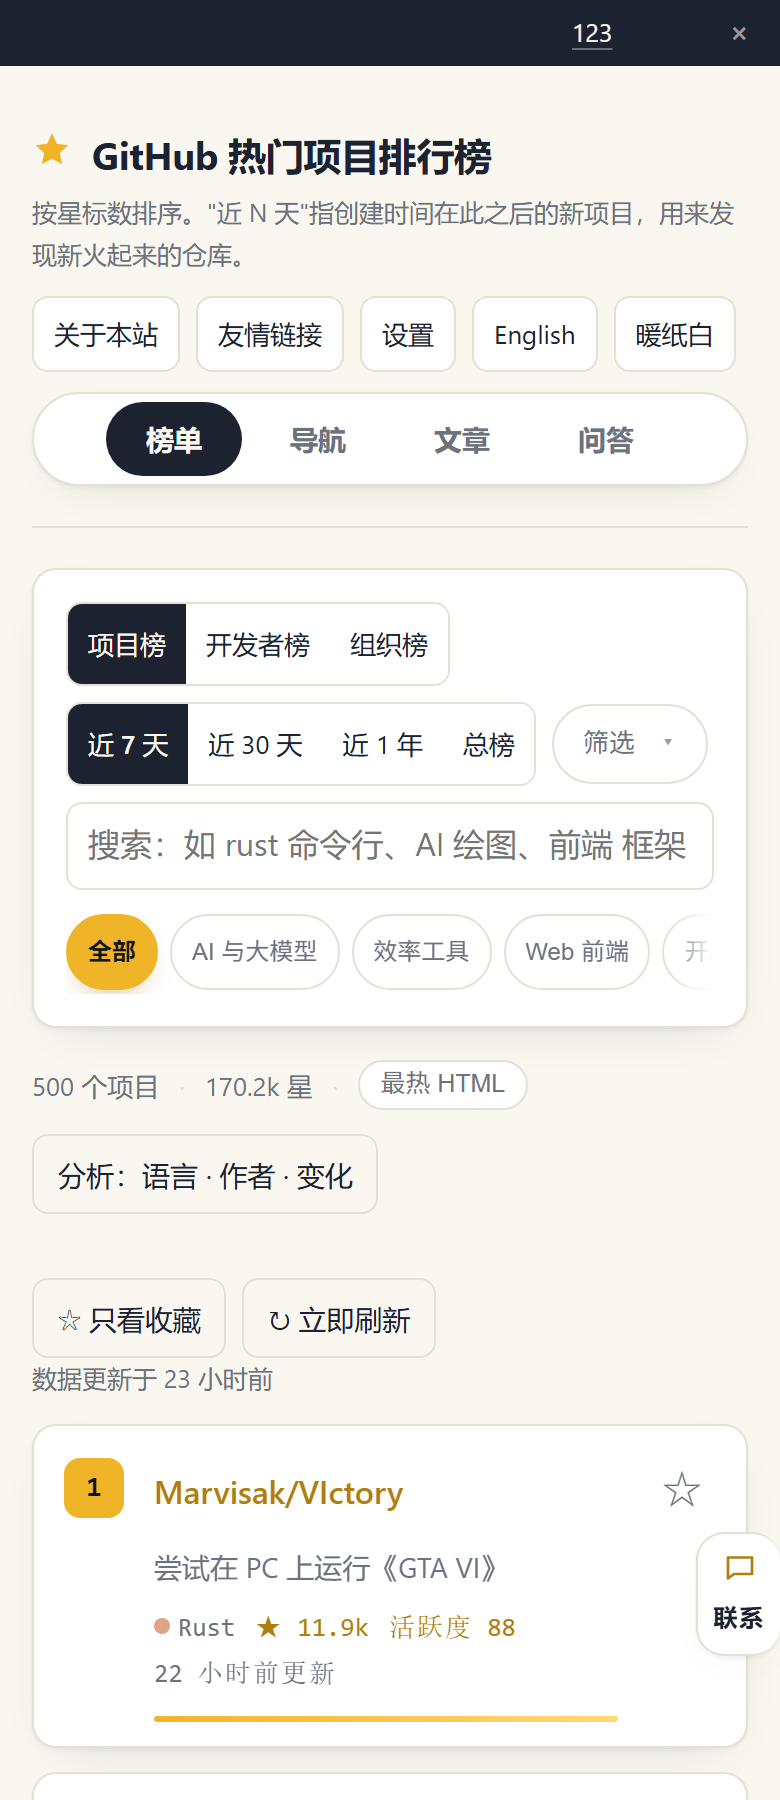
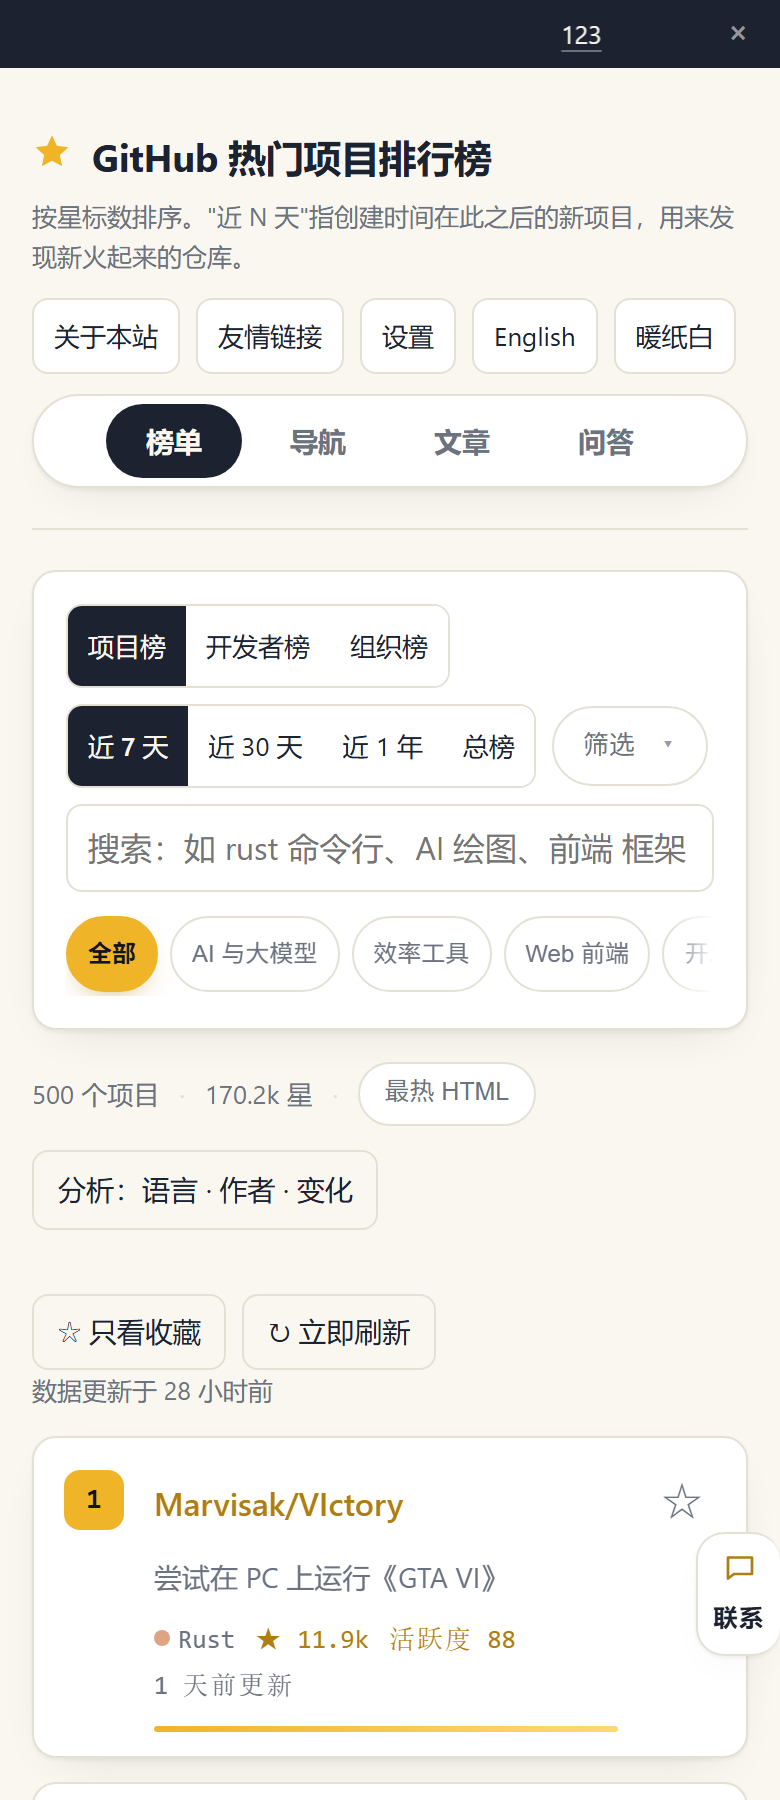
fix: 手机端横向溢出（flex 列 align-items:start→stretch）+ 分页器两行网格 + 可点目标 32px；新增 check-mobile-tidy 门禁；v185

diff --git a/index.html b/index.html
@@ -362,6 +362,17 @@ html[data-theme="ink"] .navcard .hitmark,html[data-theme="ink"] .navjump .hitmar
 #list .item:nth-child(3){animation-delay:.04s}
 #list .item:nth-child(4){animation-delay:.06s}
 @media (prefers-reduced-motion:reduce){#list .item{animation:none}}
+/* 手机端收尾：分页器换行成两排（320/390 不再横向溢出 3px）、可点目标 ≥32px */
+@media (max-width:760px){
+  /* 分页器：320 下改成两行网格（上一页｜页码｜下一页 一行，跳到 N 页 独占一行） */
+  #pager{display:grid;grid-template-columns:auto minmax(0,1fr) auto;align-items:center;column-gap:12px;row-gap:10px}
+  #pager #prev{grid-area:1 / 1}
+  #pager #pageInfo{grid-area:1 / 2;justify-self:center}
+  #pager #next{grid-area:1 / 3}
+  #pager .pjump{grid-area:2 / 1 / 3 / 4;justify-self:center;justify-content:center;margin:0}
+  .artcard .read,.linkbtn,.artmore{min-height:32px;display:inline-flex;align-items:center}
+  .artcard h3 a{display:block;padding:3px 0}
+}
 /* 打印 / 存 PDF：只留榜单主体，去掉交互与广告 */
 @media print{
   header,.controls,.toolrow,#pager,.ad-ticker,.adslot,#articles,.friends,.insights,.fab,#status{display:none!important}
@@ -424,8 +435,15 @@ html[data-theme="ink"] .navcard .hitmark,html[data-theme="ink"] .navjump .hitmar
   .insights-toggle{display:none;margin:12px 0 0}
   @media (max-width:760px){
     .insights-toggle{display:inline-flex;align-items:center;min-height:40px}
-    .layout{display:flex;flex-direction:column}
-    .insights{order:-1;margin-top:12px}
+    /* 触屏上「点得到」：小于 32px 的可点目标一律撑到 36–40px */
+    .artmore,#artViewList .artcard a.read,.toolrow .btn{min-height:38px;display:inline-flex;align-items:center}
+    .stat-lang{min-height:32px;padding:4px 12px}
+    .pjbtn{min-width:34px;min-height:34px}
+    .ad-ticker .tk-x{width:34px;height:34px;margin:-6px -6px -6px 0;font-size:16px}
+    #artViewList .artcard h3 a{display:block;padding:3px 0}
+    /* 手机一列：必须 stretch，否则 align-items:start 会让 .main 缩成 max-content（320 下整页多出 14px 横向溢出、390 下右侧空一条） */
+    .layout{display:flex;flex-direction:column;align-items:stretch}
+    .insights{order:-1;margin-top:12px;width:100%}
     .insights[hidden]{display:none}
   }
   @media (max-width:600px){

diff --git a/sw.js b/sw.js
@@ -1,5 +1,5 @@
 /* Service Worker：缓存页面外壳（HTML/JS/图标），让离线也能打开；GitHub API 不缓存，由页面自己的 localStorage 管理 */
-const CACHE = 'ghrank-shell-v184';
+const CACHE = 'ghrank-shell-v185';
 const SHELL = ['./', 'index.html', 'js/bundle.js', 'js/md.js', 'manifest.json', 'icon.svg'];
 // 只预缓存 meta（约 2KB）。榜单数据按 range 分文件、由页面按需加载，不再在安装时白下几�?KB
 const DATA = 'data/repos-meta.js';

diff --git a/worker.js b/worker.js
@@ -1630,7 +1630,7 @@ async function injectFaqLd(env, html) {
 
 // 静态资源版本：HTML 里的 /js/*.js 都会被加上 ?v=<这里>，于是能给浏览器一年 immutable；
 // 改了前端就把它 +1（不然用户浏览器会抱着一周的旧 bundle，界面上去点了没反应）
-const ASSET_V = 'v184';
+const ASSET_V = 'v185';
 
 function emptyNav() {
   return { updatedAt: '', groups: [] };

diff --git a/docs/优化建议.md b/docs/优化建议.md
@@ -5637,3 +5637,87 @@ function imeBind(el, fn) {
 ### 教训
 
 「不刷新页面」这件事，光把 `<a href>` 拦住是不够的 —— 还要同时保证三件事一致：**地址栏（`?post=`）、历史栈（back = 关弹层）、数据加载（列表与 `cache` 同步）**。少一样，用户就会遇到「点了没反应」这种最难查的症状。
+
+## 第 154 批：手机端「横向溢出 + 点不准」收口（v185）
+
+日期：2026-11-26
+
+### 怎么发现的
+
+按「320 / 360 / 390 三档逐页量」的口径过首页，第一批数据就露了两个硬问题：
+
+| 视口 | 文档宽 | 视口宽 | 结论 |
+| --- | --- | --- | --- |
+| 320 | **323** | 320 | 多出 3px 横向滚动 |
+| 390 | 334 | 390 | 右侧空 56px，卡片没铺满 |
+
+再数可点目标，5 个小于 32px：`⌘` 之外还有 `A−/A＋`、ticker 的 ×、分页器的 −/＋、摘要里的「最热 HTML」、卡片的「阅读全文」。
+
+### 根因：`align-items:start` 在 flex 列里是横向作用
+
+`.layout` 原本是 grid，`align-items:start` 让卡片各自取自然高度（对的）。到了 ≤760px 我把它改成 `display:flex;flex-direction:column` —— 这时 **`align-items` 作用的是交叉轴 = 水平方向**，于是每个子项的宽度变成 `max-content`：
+
+- 320 下 `.main` 的 max-content 是 318px，比父级 288 宽 30px → 整页横向溢出；
+- 390 下同理，卡片只有 318px 宽，右边空出一条。
+
+修法一行：`@media (max-width:760px){ .layout{...;align-items:stretch} }`。
+
+### 第二个：分页器在 320 挤成 4 排
+
+`.pager` 是 `display:flex;flex-wrap:nowrap`，里面「上一页 / 第 1 / 25 页，共 500 个 / 跳到 − [ ] + 页 / 下一页」总宽 290 > 288。改成两行网格：
+
+```css
+@media (max-width:760px){
+  #pager{display:grid;grid-template-columns:auto minmax(0,1fr) auto;align-items:center;column-gap:12px;row-gap:10px}
+  #pager #prev{grid-area:1 / 1}
+  #pager #pageInfo{grid-area:1 / 2;justify-self:center}
+  #pager #next{grid-area:1 / 3}
+  #pager .pjump{grid-area:2 / 1 / 3 / 4;justify-self:center;margin:0}
+}
+```
+
+第一版只写了 `.pjump{grid-column:1/-1}` → `next` 被挤到第 3 行（高 144px）；补 `grid-area` 显式定位后才稳定成 2 行（94px）。
+
+### 第三个：可点目标撑到 32px
+
+```css
+@media (max-width:760px){
+  .artmore,#artViewList .artcard a.read,.toolrow .btn{min-height:38px;display:inline-flex;align-items:center}
+  .stat-lang{min-height:32px;padding:4px 12px}
+  .pjbtn{min-width:34px;min-height:34px}
+  .ad-ticker .tk-x{width:34px;height:34px;margin:-6px -6px -6px 0;font-size:16px}
+  #artViewList .artcard h3 a{display:block;padding:3px 0}
+}
+```
+
+### 结果
+
+| 视口 | 改前 | 改后 |
+| --- | --- | --- |
+| 320 文档宽 | 323 | **320**（无横向滚动） |
+| 360 | 328 | 328（本来就对） |
+| 390 `.main` 宽 | 318 | **358**（= 视口 − 32 内边距） |
+| 320 分页器高 | 4 排 | **2 排（94px）** |
+| 小于 32px 的可点目标 | 5 处 | **0** |
+
+### 门禁
+
+`scripts/check-mobile-tidy.mjs`（新，**18 项**，320/360/390 各 6 条）：
+
+- 不横向溢出（`scrollWidth === clientWidth`）；
+- 榜单列宽 = 视口 − 32；
+- 卡片列表与主列同宽（±2px）；
+- 没有小于 12px 的文字；
+- 所有 `a/button` 至少「高 ≥28 或宽 ≥44」；
+- 分页器高度 ≤140（最多两排，且真的存在）。
+
+截图：`docs/shots/home-320-top.png`、`home-390-top.png`、`home-pager-320.png`（分页器两排、按钮 34×34）。
+
+### 一条可复用的判断
+
+> 手机端「右侧空一条 / 整页能左右拖」十有八九是**某个 flex 列的 `align-items` 不是 `stretch`**（grid 继承过来的 `start` 一改成 flex 列就横向生效）。用 `documentElement.scrollWidth - clientWidth` 一量就现形，别靠肉眼判断。
+
+### 教训
+
+- 断言「分页器几排」不能用「不同 top 值的个数」——`pageInfo` 因为行高居中，top 天然和按钮差 30px，会一直报 4 排。改判「容器高度 ≤ 两排」。
+- 移动端布局问题必须**三档一起量**（320 溢出、390 空条），只量 390 会漏掉 320 的 3px。
